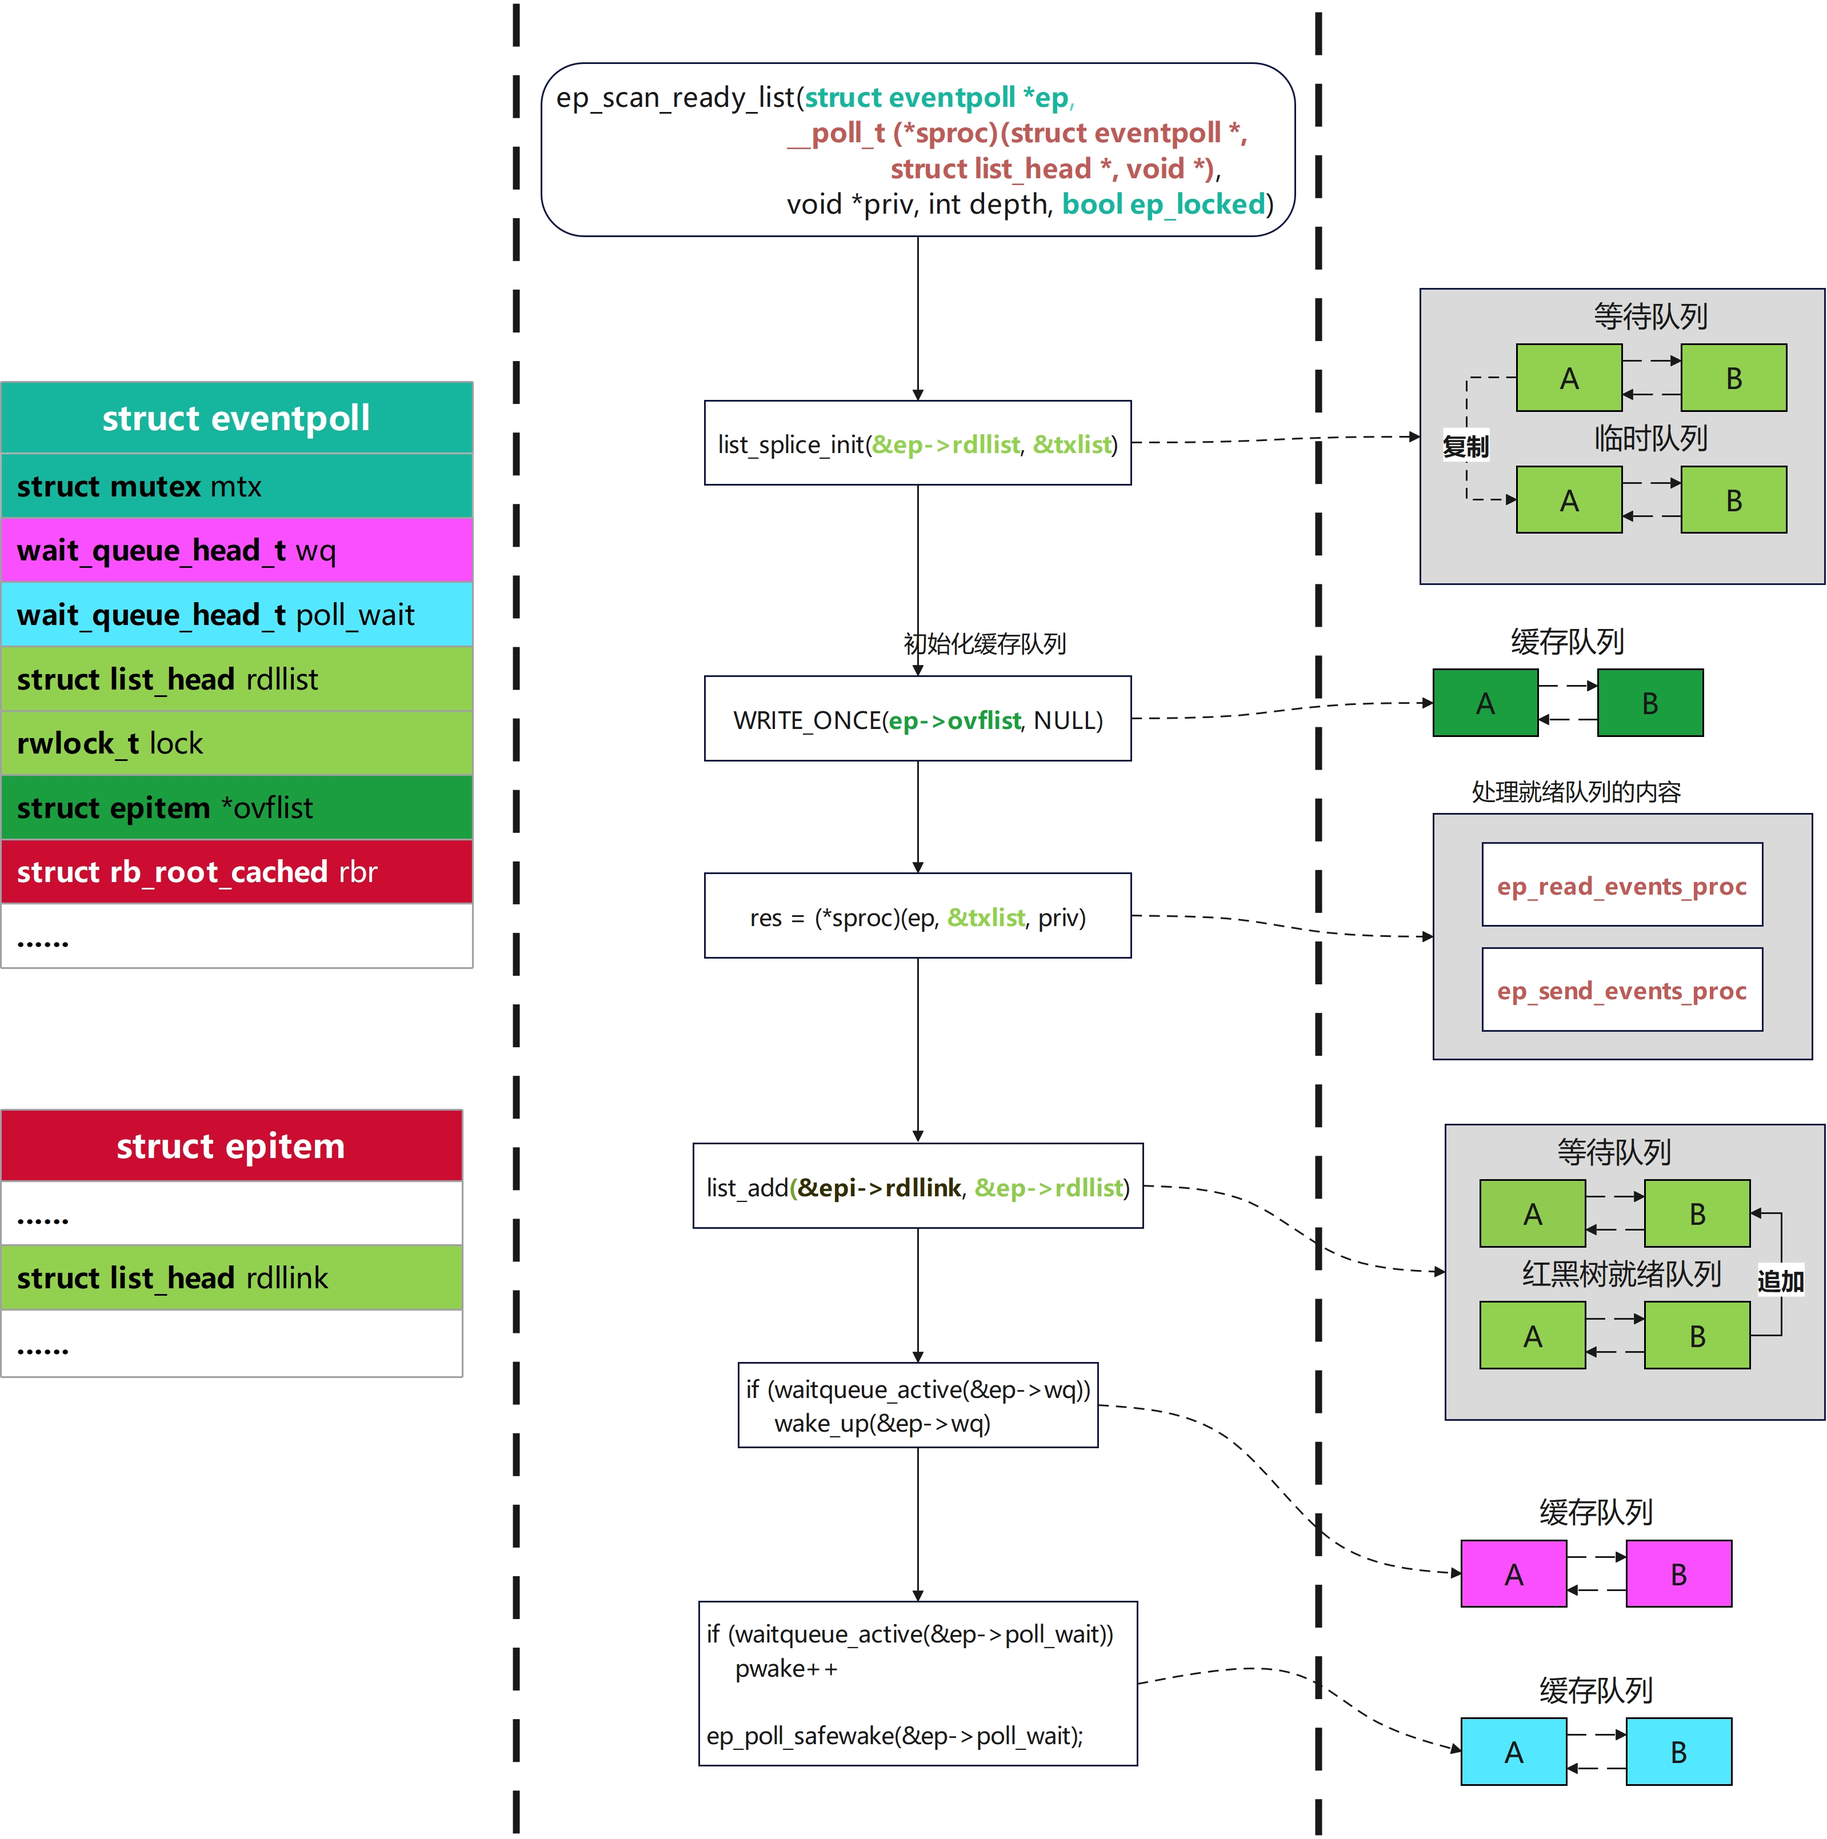
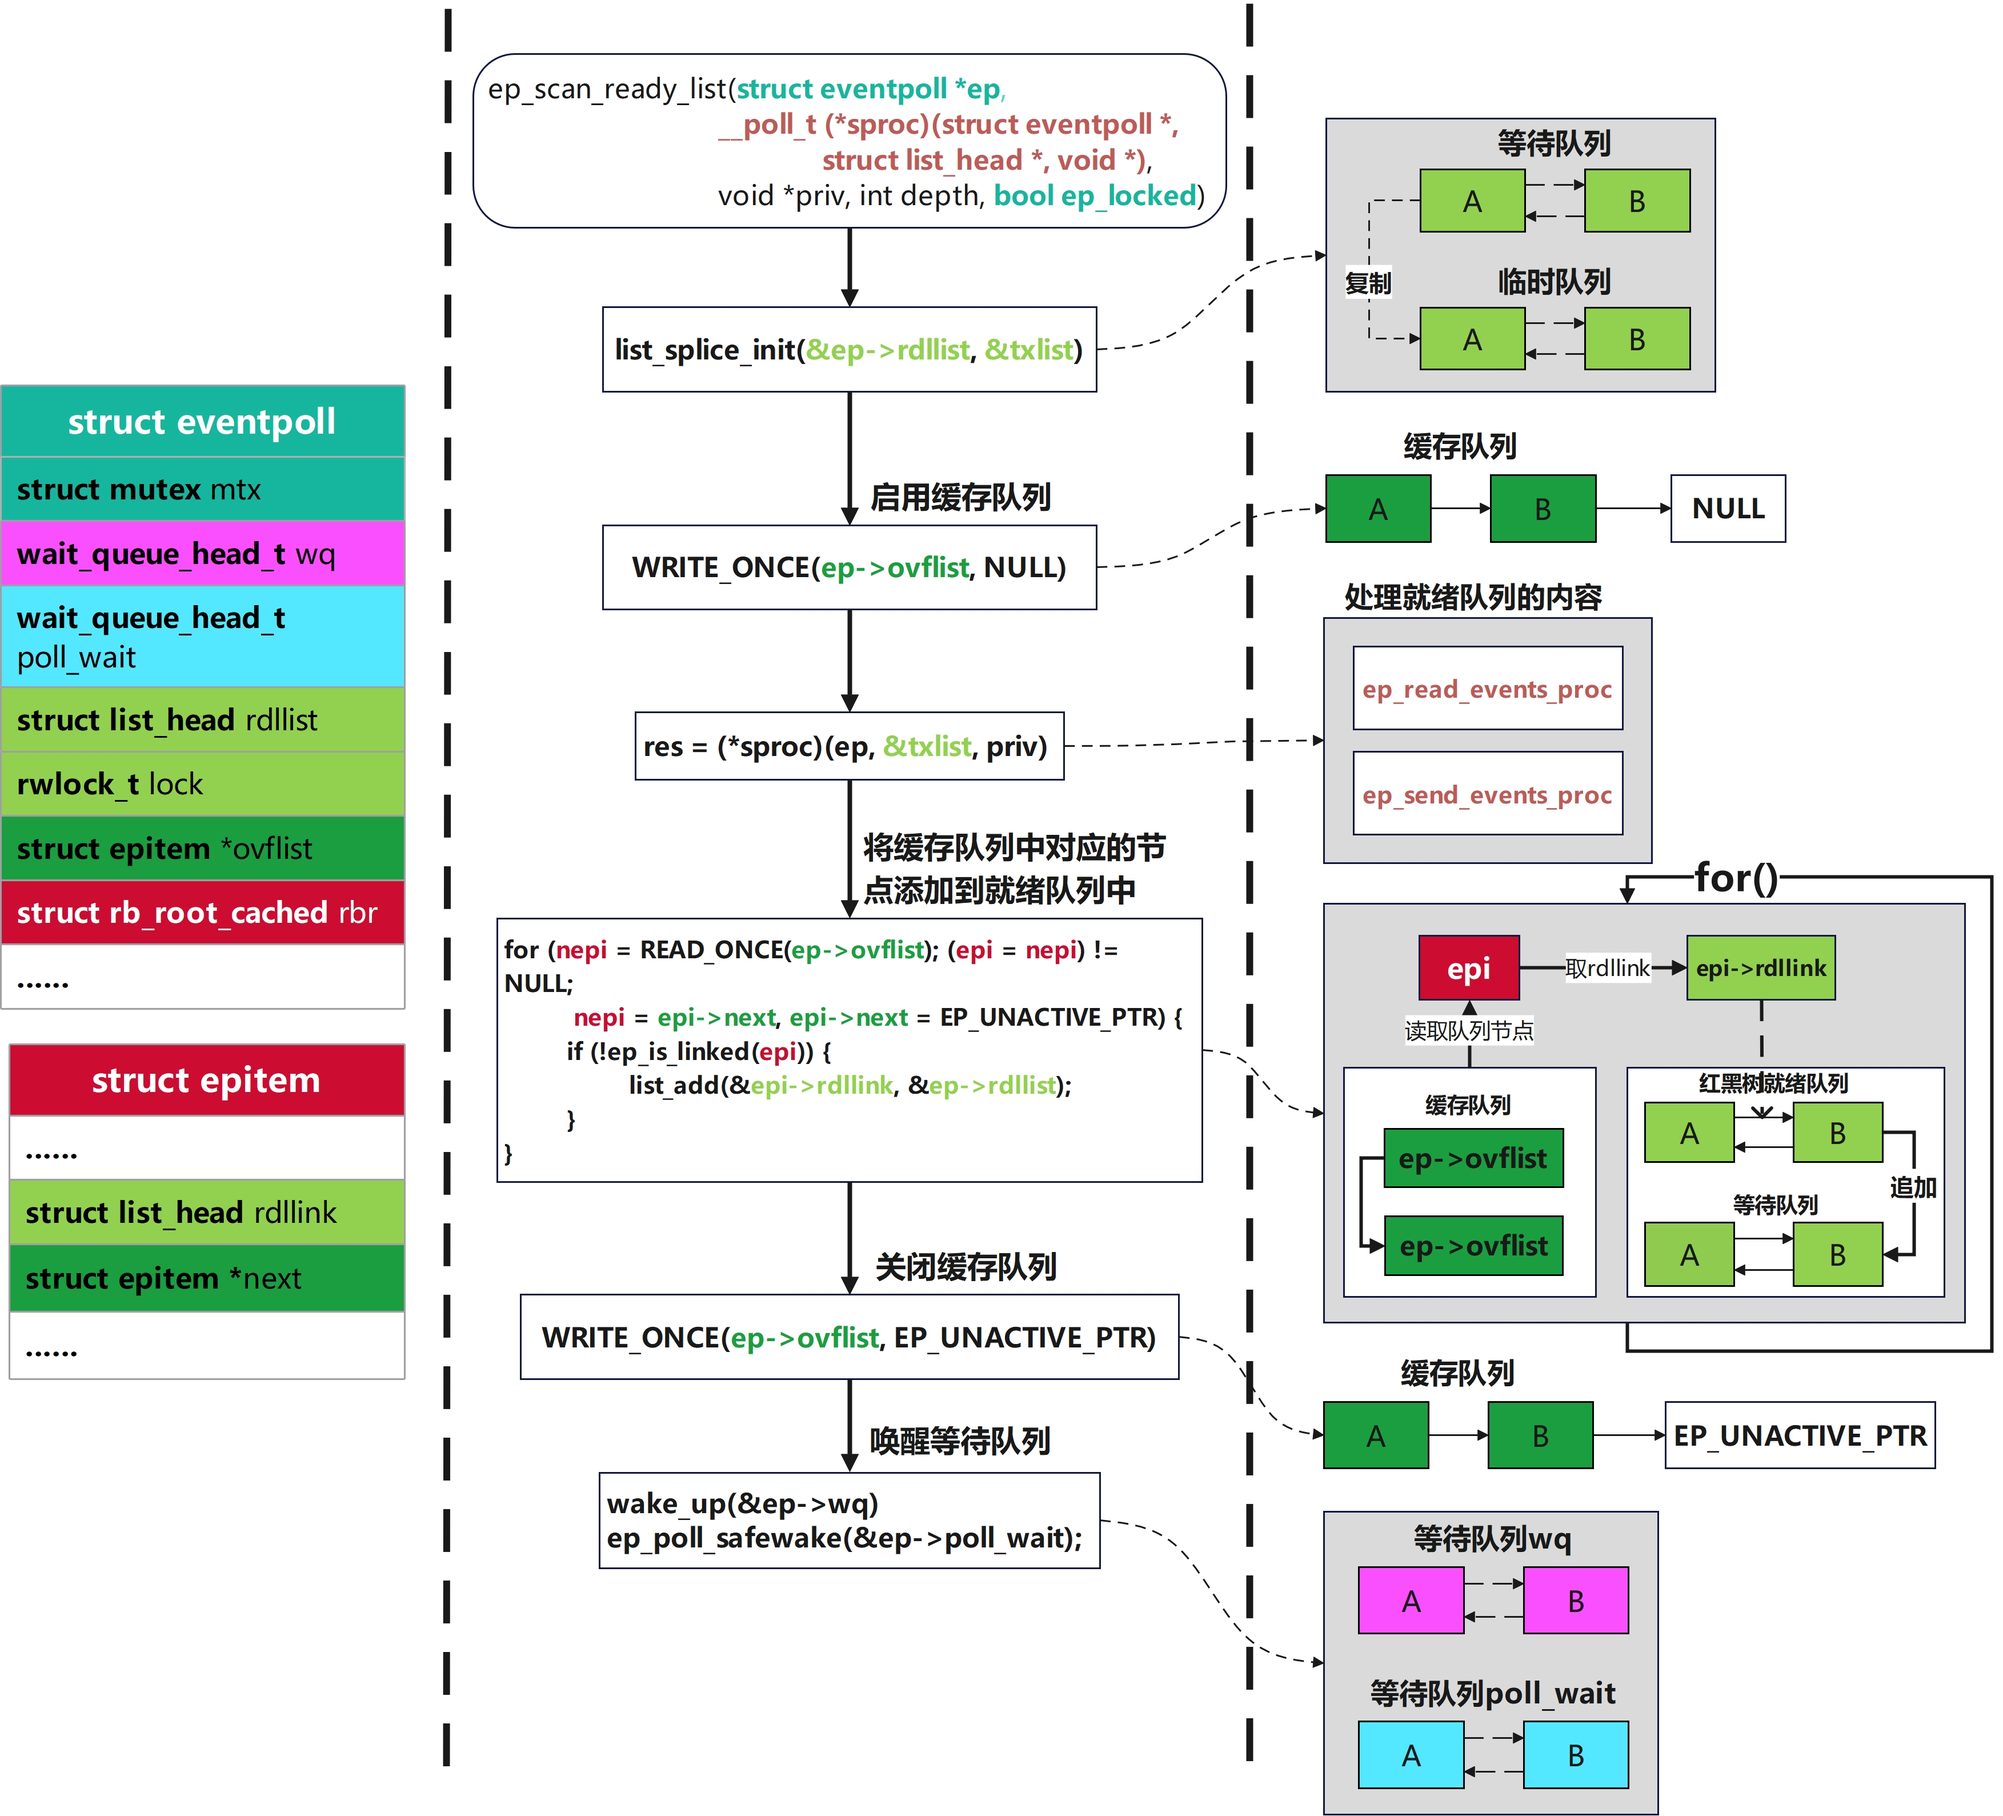
更新

diff --git a/06_Linux/03_IO模型/01_IO多路复用模型/02_epoll原理分析/01_epoll接口原理分析.md b/06_Linux/03_IO模型/01_IO多路复用模型/02_epoll原理分析/01_epoll接口原理分析.md
@@ -2,26 +2,6 @@
 
 [toc]
 
-## 待补充部分
-
-* 内核与用户态交互接口和具体的方式
-
-    用户态传入内核态的部分省略，内核态传回用户态的部分和扫描就绪链表放一起
-
-* 水平触发和边沿触发，是什么怎么实现的
-
-    和扫描就绪链表放一起
-
-* `VFS`子系统和`socket`的结合
-
-* `epoll`底层监听使用的`poll`整体流程
-
-  这里可以和底层的几个链表写在一起
-
-* 几个关键回调函数在整体流程中的作用是什么
-
-* 核心数据结构和他们之间的关系
-
 ## 一、 发展历史
 
 ### API 发布的时间线
@@ -676,7 +656,7 @@ struct epitem {
 
 这种活跃是不可预测随机的，所以红黑树中任何一个节点有对应的句柄都可能在下一刻活跃，链表会像两条线一样在树中串联其中的节点
 
-![struct_epitem_双链表](./img/struct_epitem_双链表.jpg)
+<img src="./img/struct_epitem_双链表.jpg" alt="struct_epitem_双链表" />
 
 
 
@@ -1147,7 +1127,7 @@ send_events:
 
 **外部socket活跃**
 
-![等待队列注册唤醒](./img/等待队列注册唤醒.jpg)
+<img src="./img/等待队列注册唤醒.jpg" alt="等待队列注册唤醒" />
 
 **ep_poll_callback函数**
 
@@ -1218,11 +1198,11 @@ out_unlock:
 
 根据`ovflist`的状态,将新活跃的事件添加到就绪队列或者缓存队列中
 
-![ep_poll_callback](./img/ep_poll_callback.jpg)
+<img src="./img/ep_poll_callback.jpg" alt="ep_poll_callback" />
 
 ### 6. 检测就绪事件
 
-#### 1) 刷新就绪链表
+#### 1) 扫描就绪链表
 
 **ep_send_events函数**
 
@@ -1246,8 +1226,6 @@ static int ep_send_events(struct eventpoll *ep,
 
 **ep_scan_ready_list函数**
 
-由于可以通过调用`ep_item_poll`来间接调用`ep_scan_ready_list`并且`ep_scan_ready_list`本身调用时`sproc`参数传入的`ep_read_events_proc`和`ep_send_events_proc`函数会调用`ep_item_poll`，也就是说`ep_scan_ready_list`函数和外部传入的函数回调形成了**递归调用结构**
-
 `ep_scan_ready_list`函数在`epoll`流程中功能及重要且复杂，这里保留完整注释和源码，方便读者阅读理解
 
 > 笔者注：除注释外，所有代码均未删改
@@ -1255,6 +1233,18 @@ static int ep_send_events(struct eventpoll *ep,
 ```c
 // linux-5.4/fs/eventpoll.c
 /**
+ * ep_scan_ready_list - Scans the ready list in a way that makes possible for
+ *                      the scan code, to call f_op->poll(). Also allows for
+ *                      O(NumReady) performance.
+ *
+ * @ep: Pointer to the epoll private data structure.
+ * @sproc: Pointer to the scan callback.
+ * @priv: Private opaque data passed to the @sproc callback.
+ * @depth: The current depth of recursive f_op->poll calls.
+ * @ep_locked: caller already holds ep->mtx
+ *
+ * Returns: The same integer error code returned by the @sproc callback.
+ *
  * ep_scan_ready_list - 以一种能够使扫描代码调用 f_op->poll() 的方式扫描就绪列表。同时还能实现 O(NumReady) 的性能
  * @ep：指向 epoll 私有数据结构的指针
  * @sproc：指向扫描回调函数的指针
@@ -1391,15 +1381,115 @@ static __poll_t ep_scan_ready_list(struct eventpoll *ep,
 
 **核心思想**
 
-`ep_scan_ready_list`函数的执行可以分为前后两个部分
+`ep_scan_ready_list`函数的执行可以分为以下步骤
 
-前半部分：执行传入的函数指针`sproc`这里会根据不同的场景传入`ep_read_events_proc`或`ep_send_events_proc`，分别用于检查`epoll`就绪链表或将`epoll`检测结果从内核态发送至用户态
+复制就绪链表然后将副本传入函数指针`sproc`，这里会根据不同的场景使用`ep_read_events_proc`或`ep_send_events_proc`来对就绪链表处理
 
-后半部分：遍历检查`ovflist`链表，根据检查结果更新`rdllist`链表，然后唤醒等待链表
+**ep_read_events_proc函数：**用于处理就绪链表，返回就绪事件给用户态，处理边沿触发和水平触发事件
+
+**ep_send_events_proc函数：**`epoll`模块面向`VFS`的`poll`方法
+
+遍历缓存队列将缓存的值放回就行队列中，根据检查结果更新`rdllist`链表，然后唤醒等待链表
 
 <img src="./img/ep_scan_ready_list.jpg" alt="ep_scan_ready_list" />
 
-#### 2) 检查红黑树节点
+**多层嵌套与锁：**
+
+这里需要注意`ep_read_events_proc`函数和`ep_send_events_proc`函数，都会在内部调用`ep_item_poll`函数来对红黑树节点执行等价于`vfs`的`poll`的操作，如果这时遇到了嵌套`epoll`的情况，及检查的节点是`epoll`节点，那么这时会再调用`ep_send_events_proc`函数，造成一个嵌套调用，这种嵌套的出口是找到最终的不是`epoll`的句柄
+
+**由于ep_insert函数插入时就检查过环路问题，所以这里不会出现环形调用**
+
+<img src="./img/ep_scan_ready_list递归.jpg" alt="ep_scan_ready_list递归" />
+
+#### 2) 分类处理水平触发和边沿触发并返回就绪事件
+
+```c++
+static __poll_t ep_send_events_proc(struct eventpoll *ep, struct list_head *head,
+			       void *priv)
+{
+	struct ep_send_events_data *esed = priv;
+	__poll_t revents;
+	struct epitem *epi, *tmp;
+	struct epoll_event __user *uevent = esed->events;
+	struct wakeup_source *ws;
+	poll_table pt;
+
+	init_poll_funcptr(&pt, NULL);
+	esed->res = 0;
+
+	/*
+	 * We can loop without lock because we are passed a task private list.
+	 * Items cannot vanish during the loop because ep_scan_ready_list() is
+	 * holding "mtx" during this call.
+	 */
+	lockdep_assert_held(&ep->mtx);
+
+	list_for_each_entry_safe(epi, tmp, head, rdllink) {
+		if (esed->res >= esed->maxevents)
+			break;
+
+		/*
+		 * Activate ep->ws before deactivating epi->ws to prevent
+		 * triggering auto-suspend here (in case we reactive epi->ws
+		 * below).
+		 *
+		 * This could be rearranged to delay the deactivation of epi->ws
+		 * instead, but then epi->ws would temporarily be out of sync
+		 * with ep_is_linked().
+		 */
+		ws = ep_wakeup_source(epi);
+		if (ws) {
+			if (ws->active)
+				__pm_stay_awake(ep->ws);
+			__pm_relax(ws);
+		}
+
+		list_del_init(&epi->rdllink);
+
+		/*
+		 * If the event mask intersect the caller-requested one,
+		 * deliver the event to userspace. Again, ep_scan_ready_list()
+		 * is holding ep->mtx, so no operations coming from userspace
+		 * can change the item.
+		 */
+		revents = ep_item_poll(epi, &pt, 1);
+		if (!revents)
+			continue;
+
+		if (__put_user(revents, &uevent->events) ||
+		    __put_user(epi->event.data, &uevent->data)) {
+			list_add(&epi->rdllink, head);
+			ep_pm_stay_awake(epi);
+			if (!esed->res)
+				esed->res = -EFAULT;
+			return 0;
+		}
+		esed->res++;
+		uevent++;
+		if (epi->event.events & EPOLLONESHOT)
+			epi->event.events &= EP_PRIVATE_BITS;
+		else if (!(epi->event.events & EPOLLET)) {
+			/*
+			 * If this file has been added with Level
+			 * Trigger mode, we need to insert back inside
+			 * the ready list, so that the next call to
+			 * epoll_wait() will check again the events
+			 * availability. At this point, no one can insert
+			 * into ep->rdllist besides us. The epoll_ctl()
+			 * callers are locked out by
+			 * ep_scan_ready_list() holding "mtx" and the
+			 * poll callback will queue them in ep->ovflist.
+			 */
+			list_add_tail(&epi->rdllink, &ep->rdllist);
+			ep_pm_stay_awake(epi);
+		}
+	}
+
+	return 0;
+}
+```
+
+
 
 ### 7. 向用户态返回结果
 
